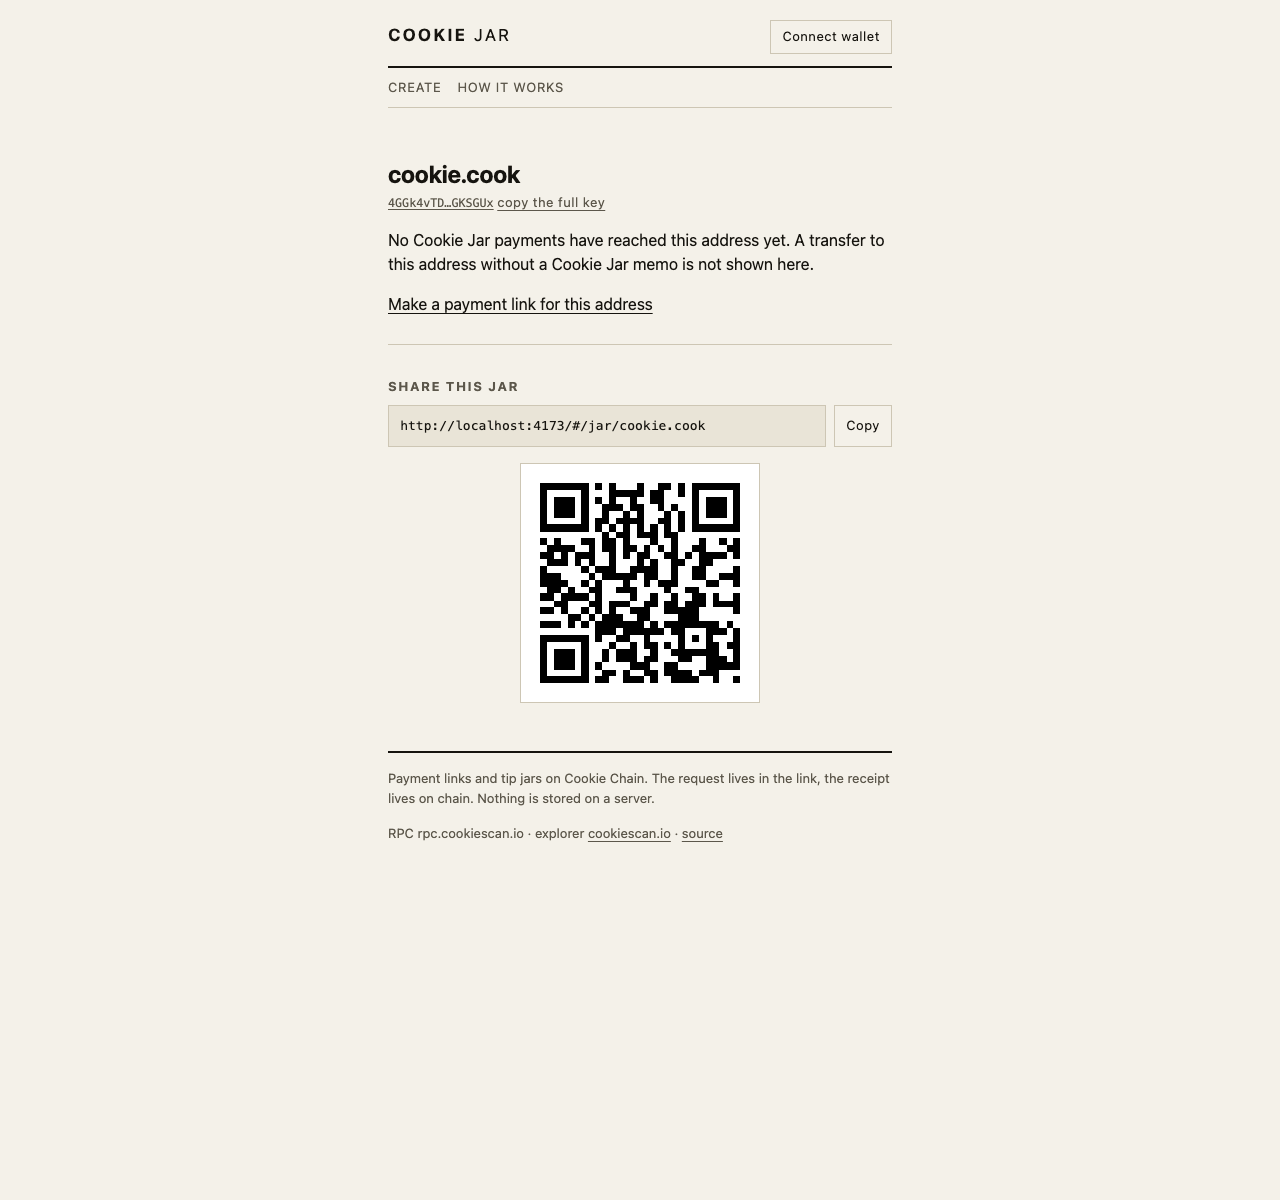
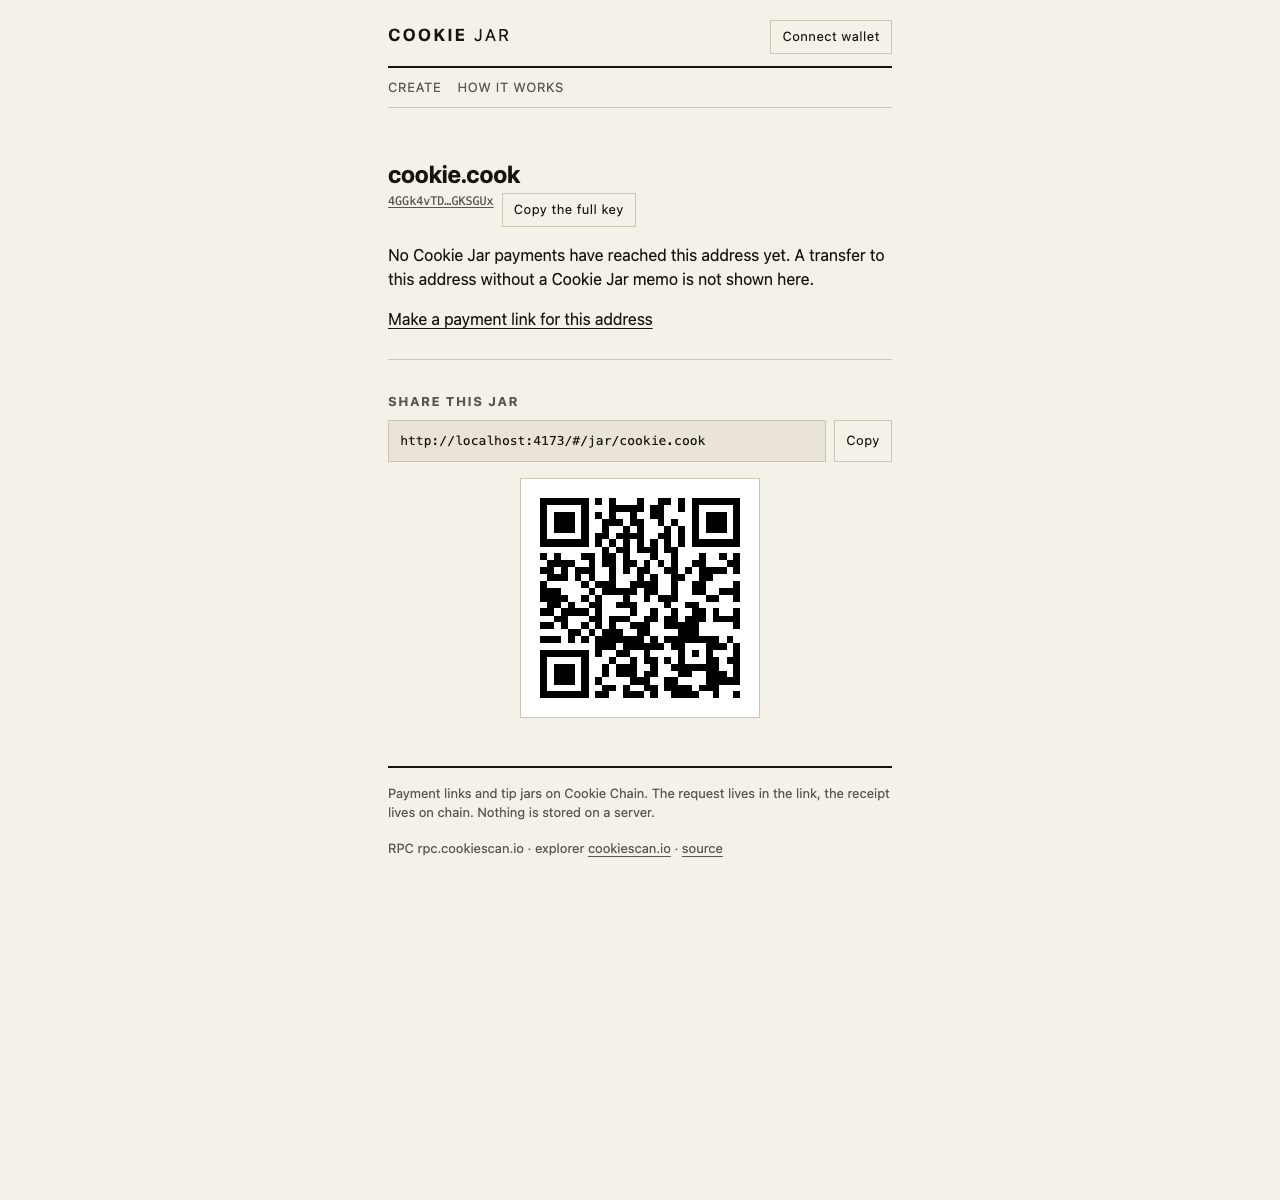
Design round 2: the pay screen carries the payment and nothing else
The nav row is off the pay screens. A payer arriving from a link has no use for
site navigation, and it stacked a second rule above the amount.

A disabled primary keeps its fill, dimmed. Emptied to an outline it read as
another input field, which is what it must not look like while it is carrying
the reason the payment cannot go.

The sub-headline no longer restates the hero to twelve decimals. Full precision
belongs where it is a record, so the receipt gains an amount-paid row; the
wallet gets the exact base units either way, as it always did.

Underlines mean navigation now. A ledger value that happens to link is styled as
the value it is and carries the affordance on hover, and the jar's copy control
is a button like the one beside the share link.

Also: base58 keys in the reference table are shortened, with the whole value on
the link and its title; the trust line under the pay button is one sentence and
absent when a red warning is already the message; and the rule above the ledger
was drawing a second hairline a few pixels from the ledger's own.

diff --git a/src/pages/About.tsx b/src/pages/About.tsx
@@ -10,7 +10,25 @@ import {
   RPC_URL,
   explorerAddressUrl,
 } from "../lib/config";
+import { shortAddress } from "../lib/format";
 import { MEMO_PREFIX } from "../lib/request";
+
+/**
+ * One address in the reference table. Shortened, because a column of full 44-character keys is a
+ * wall nobody reads; the link and its title carry the whole value for anyone comparing one.
+ */
+function ProgramRow({ label, address }: { label: string; address: string }): JSX.Element {
+  return (
+    <div className="row">
+      <dt>{label}</dt>
+      <dd className="mono">
+        <a href={explorerAddressUrl(address)} title={address}>
+          {shortAddress(address, 6, 6)}
+        </a>
+      </dd>
+    </div>
+  );
+}
 
 /** The reference page: what the app does on chain, and which addresses it touches. */
 export function About(): JSX.Element {
@@ -94,28 +112,9 @@ export function About(): JSX.Element {
           <dt>RPC</dt>
           <dd className="mono">{new URL(RPC_URL).host}</dd>
         </div>
-        <div className="row">
-          <dt>Native token</dt>
-          <dd className="mono">
-            <a href={explorerAddressUrl(COOK_MINT)}>{COOK_MINT}</a>
-          </dd>
-        </div>
-        <div className="row">
-          <dt>Memo program</dt>
-          <dd className="mono">
-            <a href={explorerAddressUrl(MEMO_PROGRAM_ID.toBase58())}>
-              {MEMO_PROGRAM_ID.toBase58()}
-            </a>
-          </dd>
-        </div>
-        <div className="row">
-          <dt>CookOven registry</dt>
-          <dd className="mono">
-            <a href={explorerAddressUrl(COOKIE_DOMAINS_PROGRAM_ID.toBase58())}>
-              {COOKIE_DOMAINS_PROGRAM_ID.toBase58()}
-            </a>
-          </dd>
-        </div>
+        <ProgramRow label="Native token" address={COOK_MINT} />
+        <ProgramRow label="Memo program" address={MEMO_PROGRAM_ID.toBase58()} />
+        <ProgramRow label="CookOven registry" address={COOKIE_DOMAINS_PROGRAM_ID.toBase58()} />
         <div className="row">
           <dt>Prices and tokens</dt>
           <dd className="mono">{new URL(COOKIESCAN_API).host}</dd>

diff --git a/src/pages/Pay.tsx b/src/pages/Pay.tsx
@@ -20,7 +20,6 @@ import {
   displayAmount,
   formatUsd,
   groupDigits,
-  isRounded,
   rawToUi,
   shortAddress,
   uiToRaw,
@@ -237,6 +236,12 @@ export function Pay({ payload }: { payload: string }): JSX.Element {
         <hr className="perf" />
         <dl className="rows">
           <div className="row">
+            <dt>Amount paid</dt>
+            <dd className="mono tabular">
+              {groupDigits(rawToUi(rawAmount ?? 0n, decimals))} {symbol}
+            </dd>
+          </div>
+          <div className="row">
             <dt>To</dt>
             <dd className="mono">{request.to}</dd>
           </div>
@@ -303,9 +308,6 @@ export function Pay({ payload }: { payload: string }): JSX.Element {
               : usdValue !== null
                 ? formatUsd(usdValue)
                 : ""}
-            {rawAmount !== null && isRounded(rawAmount, decimals)
-              ? ` · exactly ${groupDigits(rawToUi(rawAmount, decimals))} ${symbol}`
-              : ""}
           </p>
         </>
       )}
@@ -402,10 +404,7 @@ export function Pay({ payload }: { payload: string }): JSX.Element {
         </p>
       )}
 
-      <p className="small">
-        Cookie Jar never holds the money. This page builds one transaction, your wallet signs it, and
-        the funds go straight to the address above.
-      </p>
+      {resolved && <p className="small">Cookie Jar never holds the money.</p>}
     </>
   );
 }

diff --git a/src/styles.css b/src/styles.css
@@ -395,6 +395,19 @@ button:disabled {
   font-weight: 400;
 }
 
+/*
+ * The page's main action keeps its shape when it cannot be pressed. Emptied out it read as another
+ * input field, which is the one thing it must not look like while it is carrying the reason the
+ * payment cannot go.
+ */
+.primary:disabled {
+  background: #141414;
+  color: #fff;
+  opacity: 0.38;
+  border: 0;
+  font-weight: 700;
+}
+
 .primary {
   width: 100%;
   background: var(--ink);
@@ -433,6 +446,11 @@ button.link {
   border-top: 1px solid var(--rule-faint);
 }
 
+/* A rule immediately above a ledger is that ledger's top border; one line, not two. */
+.perf + .rows {
+  border-top: 0;
+}
+
 .row {
   display: flex;
   align-items: baseline;
@@ -456,6 +474,15 @@ button.link {
   margin: 0;
   text-align: right;
   overflow-wrap: anywhere;
+}
+
+.rows a {
+  text-decoration: none;
+}
+
+.rows a:hover,
+.rows a:focus-visible {
+  text-decoration: underline;
 }
 
 /*

diff --git a/src/App.tsx b/src/App.tsx
@@ -57,14 +57,16 @@ function Shell({ route }: { route: Route }): JSX.Element {
             </a>
             {!onPayPage && <WalletBar />}
           </header>
-          <nav className="nav">
-            <a href="#/" aria-current={route.name === "create" ? "page" : undefined}>
-              Create
-            </a>
-            <a href="#/about" aria-current={route.name === "about" ? "page" : undefined}>
-              How it works
-            </a>
-          </nav>
+          {!onPayPage && (
+            <nav className="nav">
+              <a href="#/" aria-current={route.name === "create" ? "page" : undefined}>
+                Create
+              </a>
+              <a href="#/about" aria-current={route.name === "about" ? "page" : undefined}>
+                How it works
+              </a>
+            </nav>
+          )}
           <main className="sheet">
             <Body />
           </main>

diff --git a/src/pages/Jar.tsx b/src/pages/Jar.tsx
@@ -185,12 +185,12 @@ export function Jar({ recipient }: { recipient: string }): JSX.Element {
   return (
     <>
       <h1>{headerTitle}</h1>
-      <p className="small">
-        <a className="mono" href={explorerAddressUrl(addressBase58)}>
+      <p className="small buttons">
+        <a className="mono" href={explorerAddressUrl(addressBase58)} title={addressBase58}>
           {shortAddress(addressBase58, 8, 6)}
-        </a>{" "}
-        <button className="link" type="button" onClick={handleCopyAddress}>
-          {addressCopied ? "copied" : "copy the full key"}
+        </a>
+        <button className="quiet" type="button" onClick={handleCopyAddress}>
+          {addressCopied ? "Copied" : "Copy the full key"}
         </button>
       </p>
 

diff --git a/src/App.test.tsx b/src/App.test.tsx
@@ -37,7 +37,10 @@ describe("the app renders", () => {
   it("shows the reference page", async () => {
     renderAt("#/about");
     expect(await screen.findByText("How Cookie Jar works")).toBeDefined();
-    expect(screen.getByText("MemoSq4gqABAXKb96qnH8TysNcWxMyWCqXgDLGmfcHr")).toBeDefined();
+    // Shortened on screen, with the whole key still reachable for anyone comparing one.
+    const memo = screen.getByTitle("MemoSq4gqABAXKb96qnH8TysNcWxMyWCqXgDLGmfcHr");
+    expect(memo.textContent).toBe("MemoSq…GmfcHr");
+    expect(memo.getAttribute("href")).toContain("MemoSq4gqABAXKb96qnH8TysNcWxMyWCqXgDLGmfcHr");
   });
 
   it("reads a payment link", async () => {
